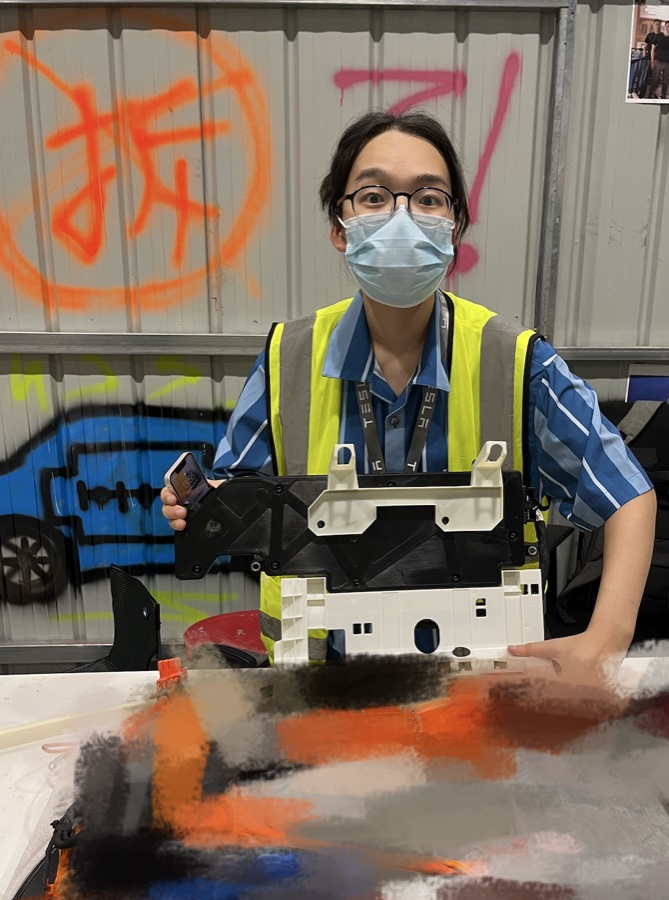
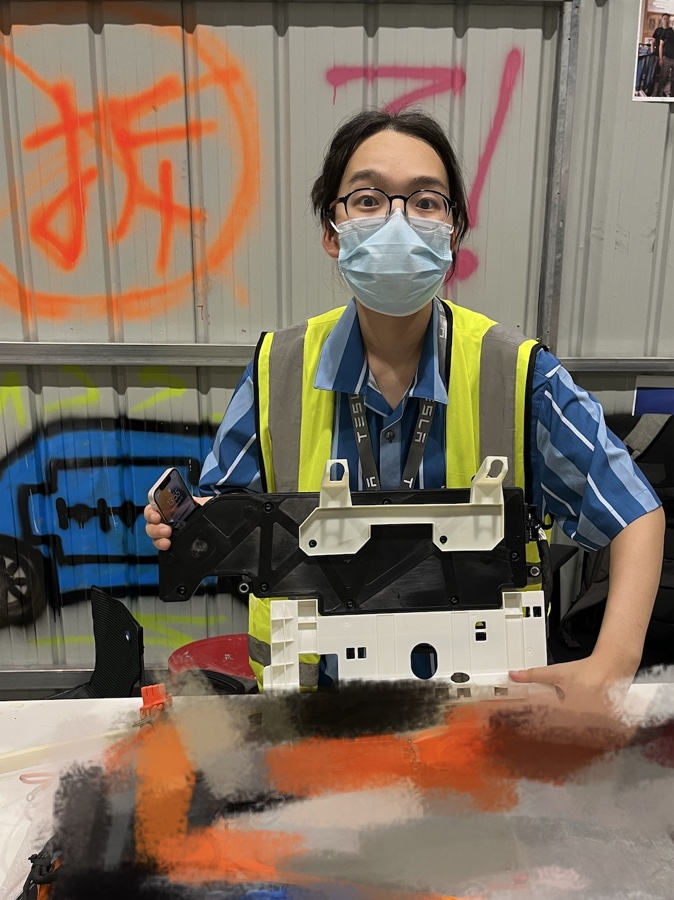
Hero uses the recropped teardown shot; lab photo dropped from gallery

diff --git a/assets/albums.js b/assets/albums.js
@@ -86,8 +86,6 @@ window.ALBUMS = [
    A collection:     { images: ["assets/a.jpg", "assets/b.jpg", ...], ... }
    Collections show a count badge and open as a pageable lightbox. */
 window.PHOTOS = [
-  { id: "p0", src: "assets/bside-lab.jpg", kind: "photo", title: "Lab Days",
-    description: "Robot arm cameo. Peace.", date: "2026" },
   { id: "p1", src: "assets/photo-1.jpg", kind: "photo", title: "Neon Frequencies", description: "Urban nightscape captured in long exposure", date: "2025.01" },
   { id: "p2", src: "assets/photo-2.jpg", kind: "photo", title: "Light Geometry", description: "Abstract light painting experiment", date: "2025.02" },
   { id: "p3", src: "assets/photo-3.jpg", kind: "photo", title: "Mechanical Soul", description: "Close-up of robotic mechanisms", date: "2024.11" },
